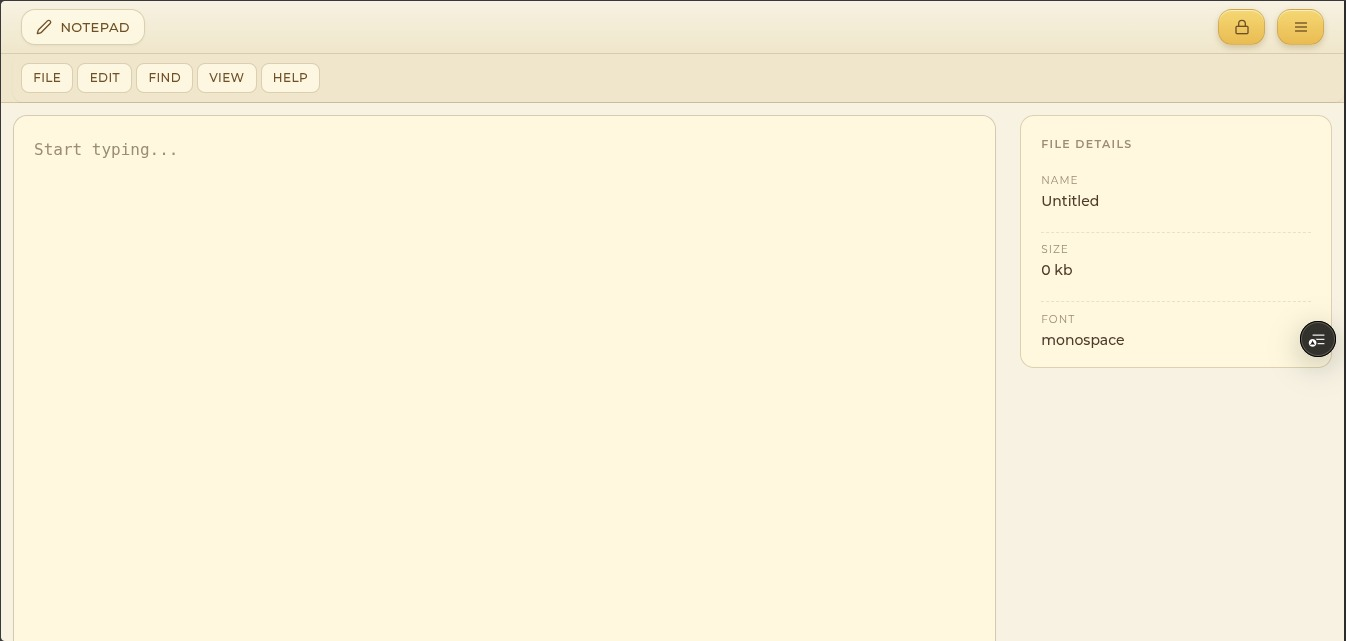
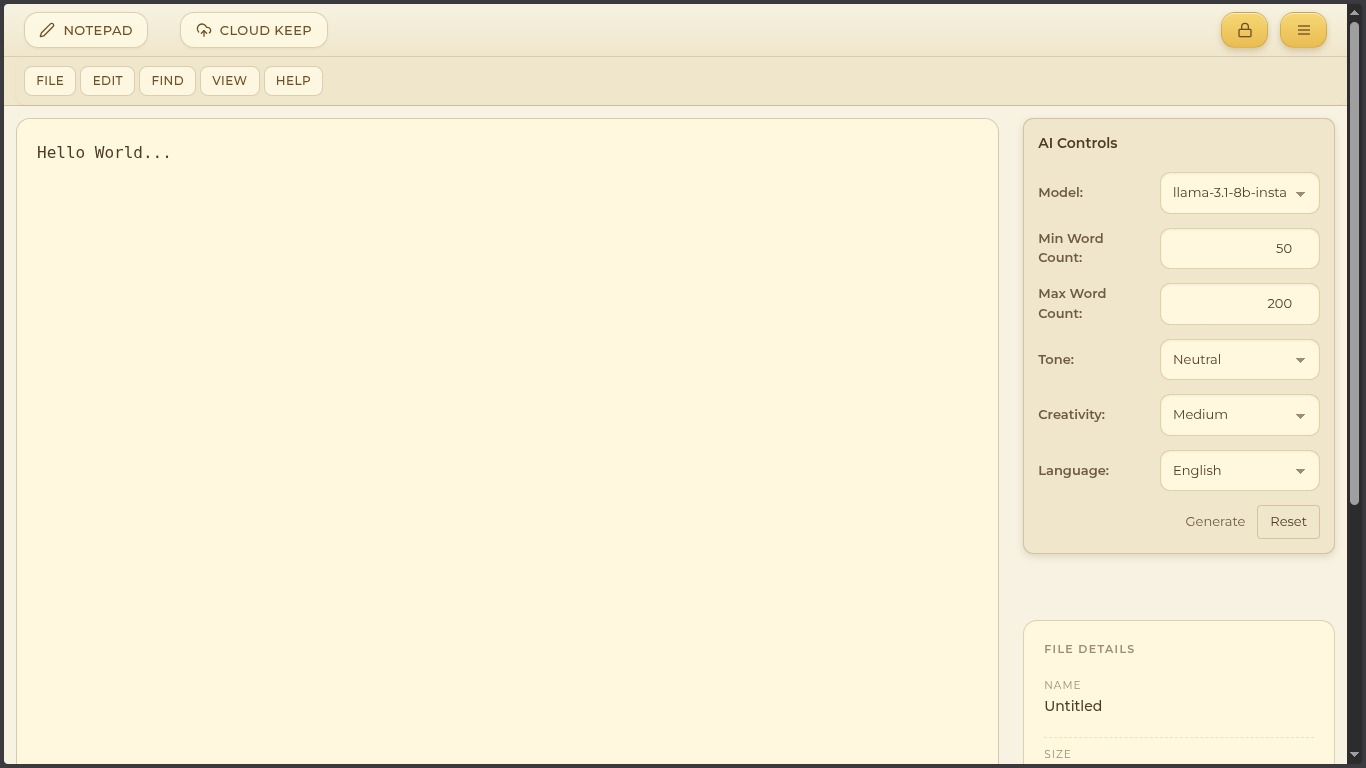
Refactor code structure for improved readability and maintainability

diff --git a/README.md b/README.md
@@ -36,7 +36,8 @@ TOTP_SECRET=<your-totp-secret>
 
 - To get your Firebase configuration values, go to the [Firebase Console](https://console.firebase.google.com/), select your project, and navigate to Project Settings > General > Your apps > Firebase SDK snippet > Config.
 - For TOTP_SECRET, you can generate a secret using a TOTP generator or library of your choice.
-
+- For GROQ_API_KEY, you can obtain it from your GROQ service account.
+- For Supabase credentials, sign up at [Supabase](https://supabase.com/), create a new project, and find the URL and anon key in the project settings under API.
 Finally, start the development server:
 
 ```bash
@@ -52,6 +53,9 @@ Take a look at some screenshots of the Devkit application:
 ![Devkit Screenshot 1](public/screenshots/1.jpeg)
 2. Main Dashboard
 ![Devkit Screenshot 2](public/screenshots/2.jpeg)
+3. Cloud Keep Vault
+![Devkit Screenshot 3](public/screenshots/3.jpeg)
+
 Project Structure
 ---
 The project follows a feature-driven, scalable Next.js App Router architecture, keeping UI, logic, and styles well separated.
@@ -94,6 +98,7 @@ The project follows a feature-driven, scalable Next.js App Router architecture, 
 │   │   ├── todo/
 │   │   ├── vault/
 │   │   └── visualiser/
+|   |   └── cloudkeep/       # Cloud Keep feature
 │
 │   ├── styles/                # Global & modular CSS
 │   │   ├── globals.css
